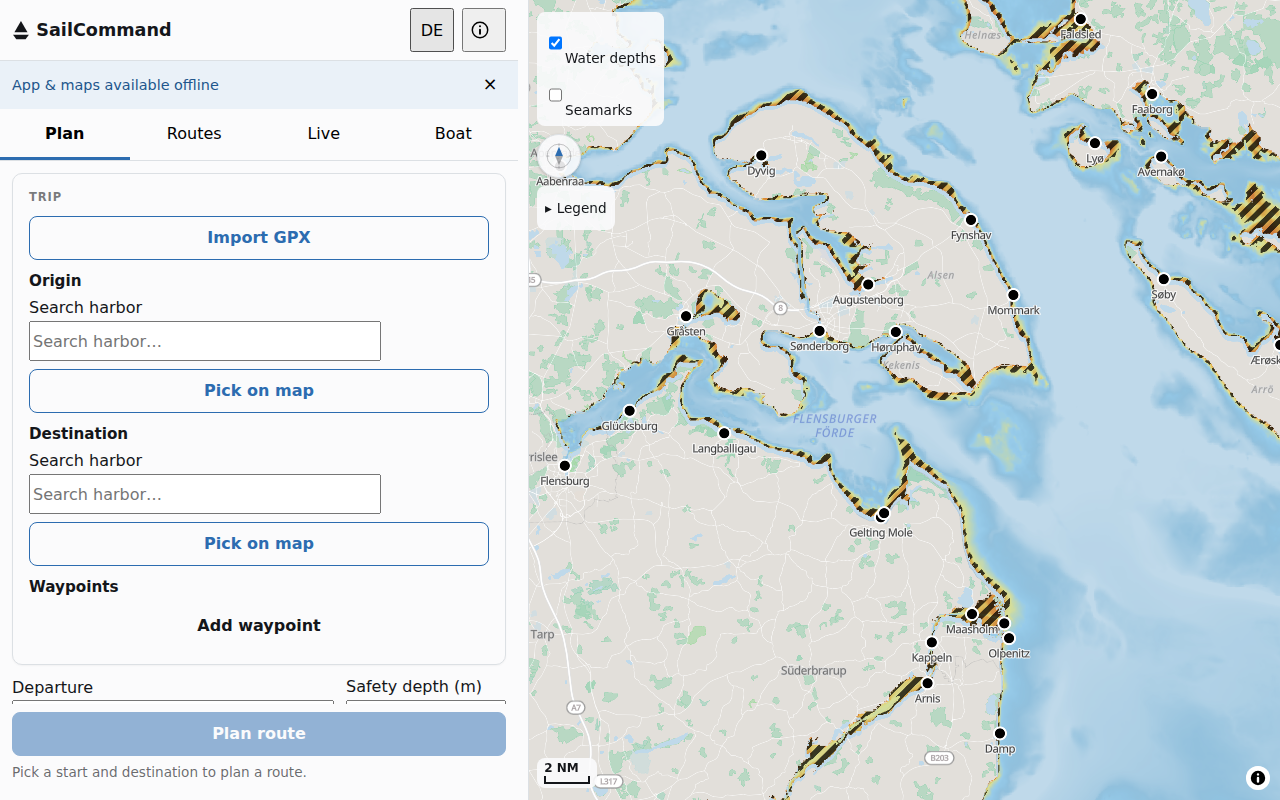
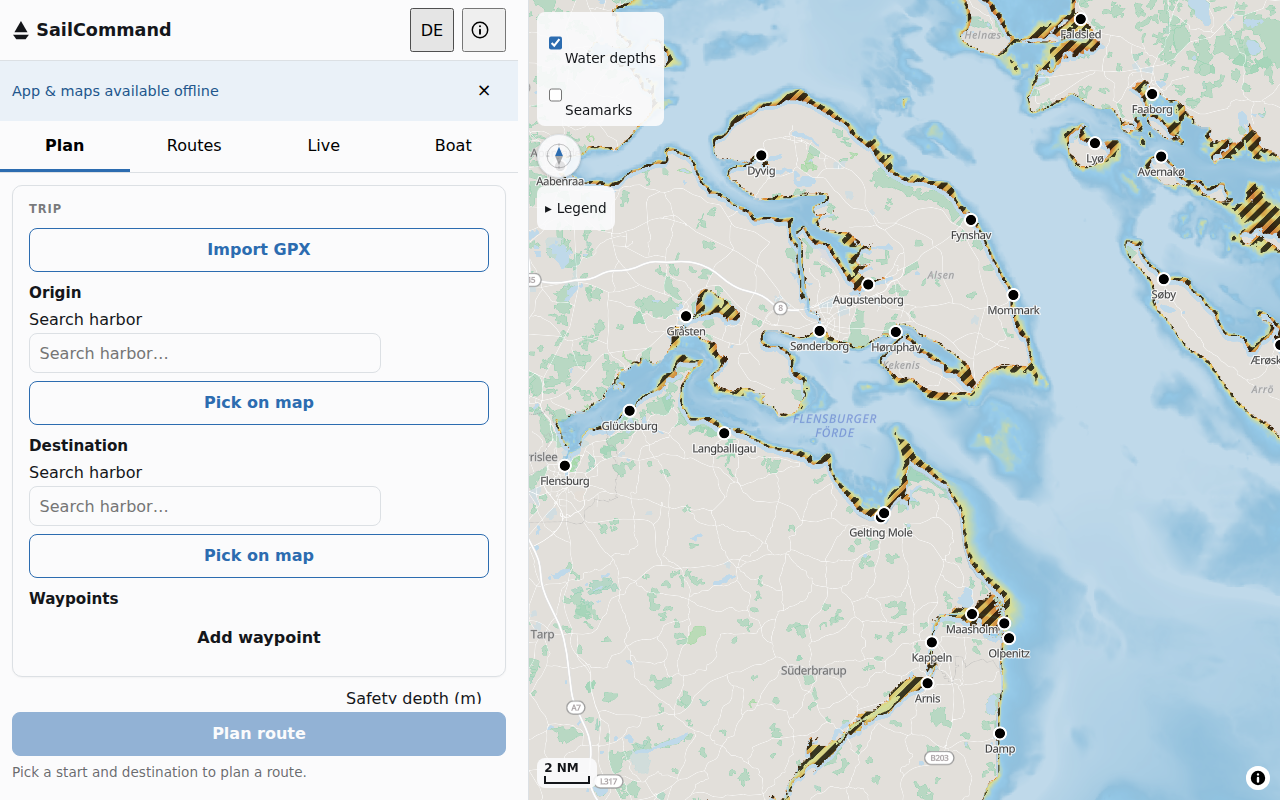
fix(release): address review findings on v0.15.0 docs sweep
- Recapture all three docs/screenshots/*.png against the release
  candidate (af6faac) build, since all three predated the #706/#708/
  #710/#718 UI changes just folded into CHANGELOG.md. Verified pixel-
  level: checkbox ticks now rgb(44,108,176) (app accent, not native
  blue), harbor-search input now shows the 8px rounded card box.
  Flensburg->Sonderborg / Genoa: 83% sail / 17% motor, Faster: Genoa
  (Genoa ETA 15:00 vs Fock 15:02, well above the 60s RIG_TIE_BAND_MS
  tie band) - the route represents the product's sailing focus, not
  a motor-dominated passage.
- docs/security-assurance-case.md: replace the stale coverage-figure
  citation with the actual newest nightly run (32925812997,
  2026-08-26, 94.15%/90.06%/93.19%/95.73%, 2259 tests/149 files) so
  the claim matches what its own re-derivation command returns.
- ROADMAP.md: disambiguate the #682/#232 ordinal (item 1 of #232's
  enumeration, discharged third; item 2 remains open, not literally
  "last" in the original list) and state the five verify_mask.py
  assert-hardening sites accurately (only one uses `if not (...)`,
  the other four use !=, >=, == 0, not in).
- CONTRIBUTING.md: collapse the milestone paragraph's threefold
  repetition of "closes only at tag push" to one statement.

Refs #132

diff --git a/docs/security-assurance-case.md b/docs/security-assurance-case.md
@@ -373,7 +373,7 @@ Listing these is part of the argument's honesty, not an aside.
 | CSP meta form cannot express `frame-ancestors`/`report-uri` | No framing protection and no automated violation reporting | Accepted — [#223](https://github.com/DocGerd/sail_command/issues/223); static host, no framing threat model in play, no collector to report to |
 | `connect-src` restricts background requests only — top-level navigation, `window.open`, DNS-prefetch/preconnect, and WebRTC are unrestricted | A compromised bundle can still exfiltrate via a `location.href` redirect, a popup, prefetch/preconnect hints, or a WebRTC data channel (raises the impact of [T1](#t1--supply-chain-compromise-of-a-bundled-dependency)) | Accepted — [#223](https://github.com/DocGerd/sail_command/issues/223); CSP3's `navigate-to` directive was never shipped in browsers, and WebRTC has no `default-src` fallback to restrict it with |
 | Tags through `v0.7.0` are permanently unsigned; even a signed tag only covers commit authorship, not deployed artifact bytes | Downstream cannot fully verify authenticity for pre-`v0.8.0` releases, and even post-signing verification doesn't independently prove the bytes GitHub Pages serves match ([T5](#t5--tampering-between-the-repository-and-the-users-browser)) | Accepted, narrowed — [#222](https://github.com/DocGerd/sail_command/issues/222) shipped the verification docs and process (`SECURITY.md`, `CONTRIBUTING.md`); [#322](https://github.com/DocGerd/sail_command/issues/322) landed the signing mechanism and a registered public key, live from `v0.8.0`. Every release tag from `v0.8.0` onward has shipped signed, and every one from `v0.8.1` onward additionally shows GitHub's Verified badge — `v0.8.0` itself signed under an unregistered email (GitHub attribution gap, not a signature problem; see the `v0.8.1` CHANGELOG entry), which is the single documented exception. Re-derive with `gh api repos/DocGerd/sail_command/git/tags/$(git rev-parse refs/tags/vX.Y.Z) --jq .verification`. Still not fully "closed": signing covers the tagged commit, never the deployed artifact bytes, and re-tagging `v0.1.0`–`v0.7.0` is explicitly out of scope (would break the `(main SHA, git-describe version)` deploy-identity scheme) — that part of the gap is permanent, not a bootstrap step |
-| Statement coverage threshold is a floor, not a ratchet, and is checked only nightly | A regression can erode up to ~14 points below the measured baseline before it is reported, and — since the check runs on a nightly schedule, not per-PR — a regression can also sit unreported for up to 24h after merging | Accepted, planned — [#221](https://github.com/DocGerd/sail_command/issues/221) delivered the measurement, re-taken at each cut from the nightly job: 93.92% statements on 2026-08-03 (#221's original run), and 93.85% statements / 89.79% branches / 92.99% functions / 95.42% lines on 2026-08-24 (`coverage.yml` run 32685807053 on `develop` at `31c90d9`, 2136 tests across 145 files) — re-derive the newest rather than trusting this pair: `gh run list --workflow=coverage.yml --limit 1` — comfortably satisfying the OpenSSF `test_statement_coverage80` criterion, and leaving the erosion corridor below the 80% floor at ~14 points as described above; [#319](https://github.com/DocGerd/sail_command/issues/319)/[#342](https://github.com/DocGerd/sail_command/issues/342) added `thresholds.statements: 80` in `app/vite.config.ts` plus a non-required `.github/workflows/coverage.yml` job that runs nightly (`schedule`) and on manual `workflow_dispatch` — not per-PR or per-push, so the full v8-instrumented suite (~17 min measured locally) never adds latency to a PR. Getting there needed a centralized coverage-aware test-timeout module (`app/src/test/timeouts.ts`, imported by every solver-heavy test file) plus a structural guard (`app/src/test/timeoutGuard.test.ts`) after three earlier dispatch attempts each failed on a different timeout surface (a job-level `timeout-minutes` cap, then the solver-heavy tests' own per-test `vi.setConfig`/`timeout` budgets under v8 instrumentation — raising the job cap could never have fixed the second). `src/sw.ts` and `src/routing/worker.ts` remain IN coverage scope at ~0% BY DESIGN — jsdom has no real ServiceWorker or dedicated-Worker execution model — with their functional assurance instead coming from `app/e2e/offline.spec.ts`, `csp.spec.ts`, `basemap-fallback.spec.ts`, `plan.spec.ts`, `live.spec.ts`, and `deploy.yml`'s post-deploy CDN smoke probe; excluding them was considered and rejected (see the #319 decision comment) since together they are only ~0.57% of statements and excluding would *raise*, not preserve, the published figure. The 80% floor is deliberate, not a ceiling, and both the ~14-point corridor and the nightly (not per-PR) cadence are knowingly accepted gaps — revisit at the next release cut |
+| Statement coverage threshold is a floor, not a ratchet, and is checked only nightly | A regression can erode up to ~14 points below the measured baseline before it is reported, and — since the check runs on a nightly schedule, not per-PR — a regression can also sit unreported for up to 24h after merging | Accepted, planned — [#221](https://github.com/DocGerd/sail_command/issues/221) delivered the measurement, re-taken at each cut from the nightly job: 93.92% statements on 2026-08-03 (#221's original run), and 94.15% statements / 90.06% branches / 93.19% functions / 95.73% lines on 2026-08-26 (`coverage.yml` run 32925812997 on `develop` at `352c3e9b`, 2259 tests across 149 files) — re-derive the newest rather than trusting this pair: `gh run list --workflow=coverage.yml --limit 1` — comfortably satisfying the OpenSSF `test_statement_coverage80` criterion, and leaving the erosion corridor below the 80% floor at ~14 points as described above; [#319](https://github.com/DocGerd/sail_command/issues/319)/[#342](https://github.com/DocGerd/sail_command/issues/342) added `thresholds.statements: 80` in `app/vite.config.ts` plus a non-required `.github/workflows/coverage.yml` job that runs nightly (`schedule`) and on manual `workflow_dispatch` — not per-PR or per-push, so the full v8-instrumented suite (~17 min measured locally) never adds latency to a PR. Getting there needed a centralized coverage-aware test-timeout module (`app/src/test/timeouts.ts`, imported by every solver-heavy test file) plus a structural guard (`app/src/test/timeoutGuard.test.ts`) after three earlier dispatch attempts each failed on a different timeout surface (a job-level `timeout-minutes` cap, then the solver-heavy tests' own per-test `vi.setConfig`/`timeout` budgets under v8 instrumentation — raising the job cap could never have fixed the second). `src/sw.ts` and `src/routing/worker.ts` remain IN coverage scope at ~0% BY DESIGN — jsdom has no real ServiceWorker or dedicated-Worker execution model — with their functional assurance instead coming from `app/e2e/offline.spec.ts`, `csp.spec.ts`, `basemap-fallback.spec.ts`, `plan.spec.ts`, `live.spec.ts`, and `deploy.yml`'s post-deploy CDN smoke probe; excluding them was considered and rejected (see the #319 decision comment) since together they are only ~0.57% of statements and excluding would *raise*, not preserve, the published figure. The 80% floor is deliberate, not a ceiling, and both the ~14-point corridor and the nightly (not per-PR) cadence are knowingly accepted gaps — revisit at the next release cut |
 | Open code-scanning alert: OpenSSF Scorecard v5.5.0 `Maintained` check, severity High | None derivable from the alert itself — it names no package, file, or line (`location.path` reads "no file associated with this alert"); its message is `score is 0: project was created within the last 90 days`, and the check's own help text states it "will only succeed if a GitHub project is >90 days old" | Accepted, self-resolving, no code change possible — [#72](https://github.com/DocGerd/sail_command/issues/72); repository `created_at` is 2026-07-14T20:41:35Z, so the check self-resolves ~2026-10-12 (90 days later) purely from the repository's age |
 | Dismissed code-scanning alert: CodeQL `js/superfluous-trailing-arguments`, severity warning (no security severity) | None — it fires on `app/src/lib/depthColor.test.ts`, a test file that never ships, at a call that deliberately passes a superfluous argument under `@ts-expect-error` to assert at compile time that neither depth ramp function has a `safetyDepthM` slot | Accepted, intentional — a quality rather than security rule surfaced by the [#534](https://github.com/DocGerd/sail_command/issues/534) `security-and-quality` widening, same class as the six recorded in [#600](https://github.com/DocGerd/sail_command/issues/600). Dismissed as `used in tests` rather than fixed (alerts #17, #18, #21), so the deliberate call site remains. Enumerate the live set rather than trusting this table: `gh api repos/DocGerd/sail_command/code-scanning/alerts --jq '.[]\|select(.state!="fixed")\|"\(.number) \(.state) \(.rule.id)"'` |
 | Bus factor is 1 | No second person can review, merge, release, or respond to a report | Structural — [`GOVERNANCE.md`](../GOVERNANCE.md#continuity-and-succession) |

diff --git a/ROADMAP.md b/ROADMAP.md
@@ -21,11 +21,11 @@ shipped.
 The `v0.15.0` cut (2026-08-27) closed the
 [`v0.15.0` milestone](https://github.com/DocGerd/sail_command/milestones),
 thirteen issues in total. Seamark map chrome: the third of #200's original
-four map-chrome residuals — hazard marks (cardinal and isolated-danger
-buoys) painting under routine marks at z≥12 — is fixed by splitting the
-layer in two, closing
+four map-chrome residuals to be discharged — hazard marks (cardinal and
+isolated-danger buoys) painting under routine marks at z≥12 (item 1 of
+#232's own enumeration) — is fixed by splitting the layer in two, closing
 [#682](https://github.com/DocGerd/sail_command/issues/682) and leaving only
-cross-tile ordering open under
+cross-tile ordering (item 2) open under
 [#232](https://github.com/DocGerd/sail_command/issues/232), rolled to
 `v0.16.0`. Interaction and accessibility hardening made up most of the
 milestone: origin/destination search re-picks and cancels now return
@@ -71,8 +71,8 @@ are covered under "Development workflow" below.
 
 The [`v0.16.0` milestone](https://github.com/DocGerd/sail_command/milestones)
 holds sixteen issues. Seamark and depth-overlay follow-on continues: the
-last of #200's four original map-chrome residuals, cross-tile symbol
-ordering, stays open under
+last of #200's four original map-chrome residuals to remain open — item 2
+of #232's own enumeration, cross-tile symbol ordering — stays open under
 [#232](https://github.com/DocGerd/sail_command/issues/232); the
 depth-navigability hatch still renders as hard-edged, aliased mask-cell
 squares at close zoom
@@ -214,9 +214,10 @@ user-visible surface. `pipeline/verify_mask.py`'s five safety-critical bare
 `assert` statements — mask-grid bounds, the per-boat gate-derivation
 cross-check, decimetre-quantisation drift, connectivity-seed navigability,
 and harbor `approachNote` completeness — could be silently stripped by
-`python -O`/`PYTHONOPTIMIZE=1`; they are now explicit `if not (...): raise
-AssertionError(...)` checks that survive optimisation, with a mutant
-reproducing the exact original hazard on a reverted single check
+`python -O`/`PYTHONOPTIMIZE=1`; each is now an explicit `if <condition>:
+raise AssertionError(...)` check (the condition differs per site — `if not
+(...)`, `!=`, `>=`, `== 0`, `not in`) that survives optimisation, with a
+mutant reproducing the exact original hazard on a reverted single check
 ([#613](https://github.com/DocGerd/sail_command/issues/613)).
 `.github/scripts/check-no-home-paths.sh` scanned tracked file *content* via
 `grep`, which follows a symlink to its target's content rather than reading

diff --git a/CONTRIBUTING.md b/CONTRIBUTING.md
@@ -178,11 +178,9 @@ labels on **pull requests** are applied automatically from changed paths by
 
 `v0.4.0` through `v0.14.0` are closed (plus the `v0.5.1`, `v0.12.1`, and
 `v0.13.1` patch milestones) — `v0.15.0` is not yet closed as of this docs
-sweep (all 13 issues in it are closed, but the milestone itself closes only
-at tag push, per the release runbook). A milestone closes only once its release PR
-merges and the tag is pushed, per the roll-forward convention below, so
-`gh api repos/DocGerd/sail_command/milestones` is the fact, not this
-sentence. The `v0.8.1` patch release (documentation-only) shipped
+sweep, even though all 13 of its issues are (see the roll-forward convention
+below for why). `gh api repos/DocGerd/sail_command/milestones` is the fact,
+not this sentence. The `v0.8.1` patch release (documentation-only) shipped
 on 2026-08-04 and, per the PATCH exception below, carries no milestone of
 its own.
 The [milestones page](https://github.com/DocGerd/sail_command/milestones) is
